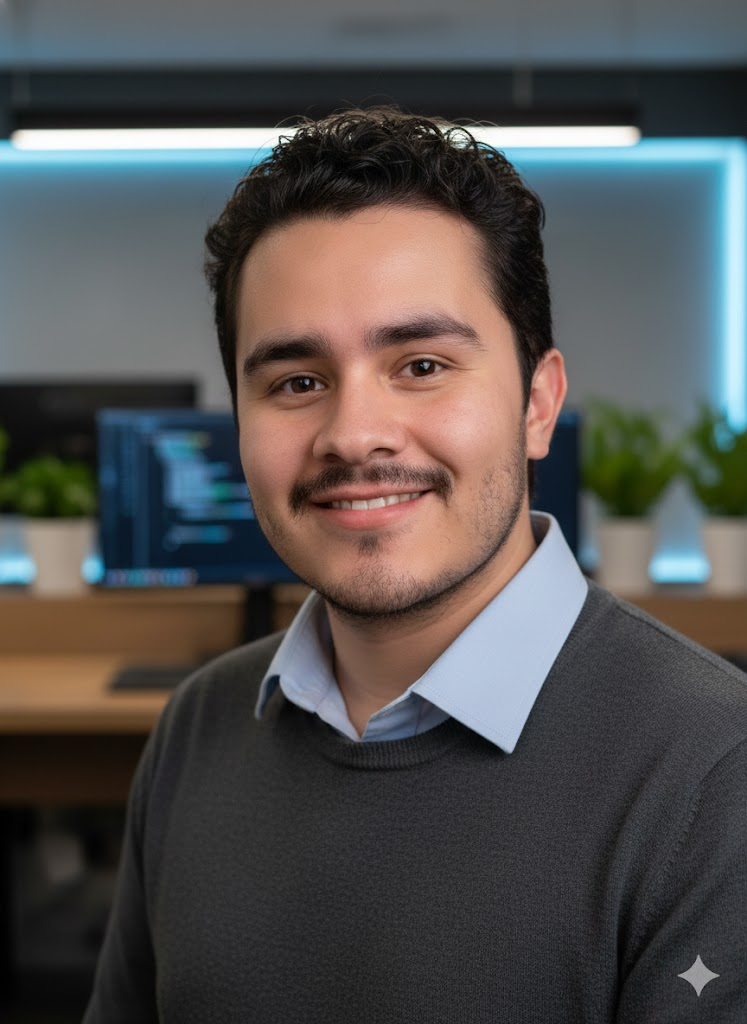
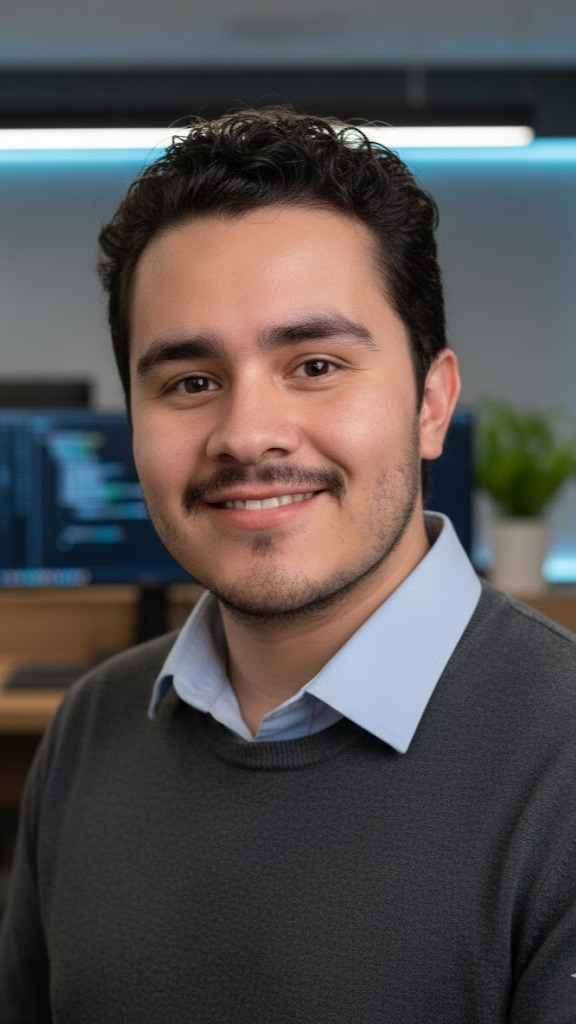
Se cambia el tamaño de las imagenes a 9/16

diff --git a/acercaDe.html b/acercaDe.html
@@ -153,7 +153,7 @@
         <div class="card my-5 mx-5" style="max-width: 550px;">
             <div class="row">
                 <div class="col-12 col-sm-9 col-md-9 col-lg-4">
-                    <img src="./assets/Miri.jpeg" class="img-fluid rounded-start" alt="...">
+                    <img src="./assets/Miri.JPG" class="img-fluid rounded-start" alt="...">
                 </div>
                 <div class="col-12 col-sm-9 col-md-9 col-lg-7">
                     <div class="card-body">
@@ -205,7 +205,7 @@
     </div>    
         <div class="container">
             <div class="row">
-                <div class="card my-5 mx-5" style="max-width: 540px;">
+                <div class="card my-5 mx-5" style="max-width: 550px;">
                     <div class="row">
                         <div class="col-12 col-sm-9 col-md-9 col-lg-4">
                             <img src="./assets/OmarM.jpg" class="img-fluid rounded-start" alt="...">
